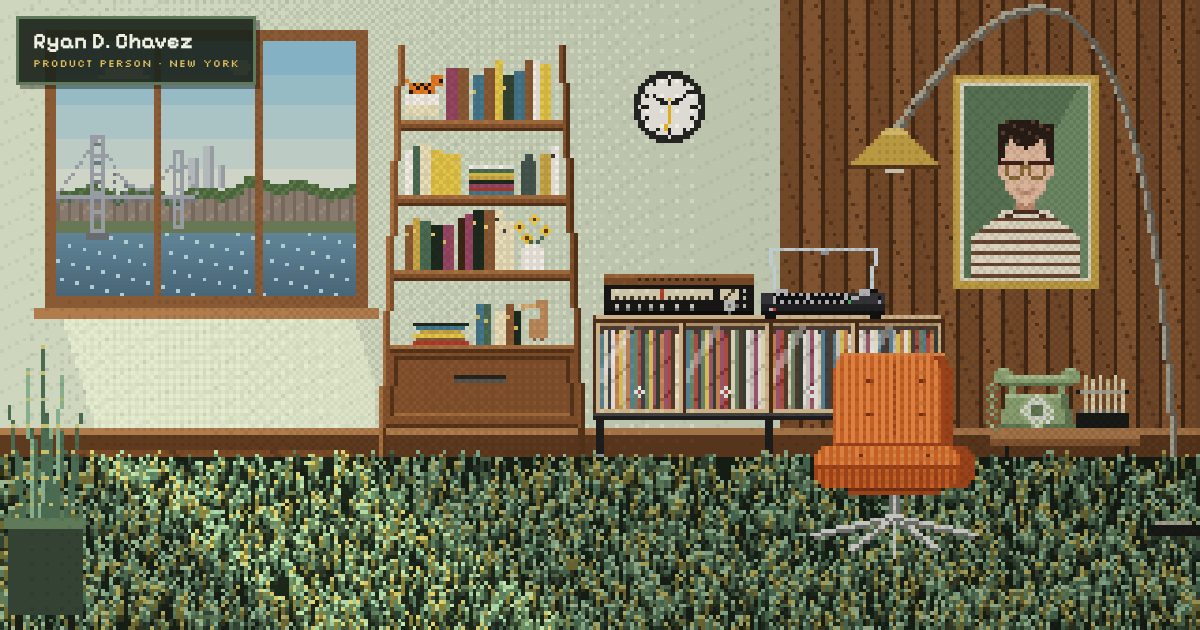
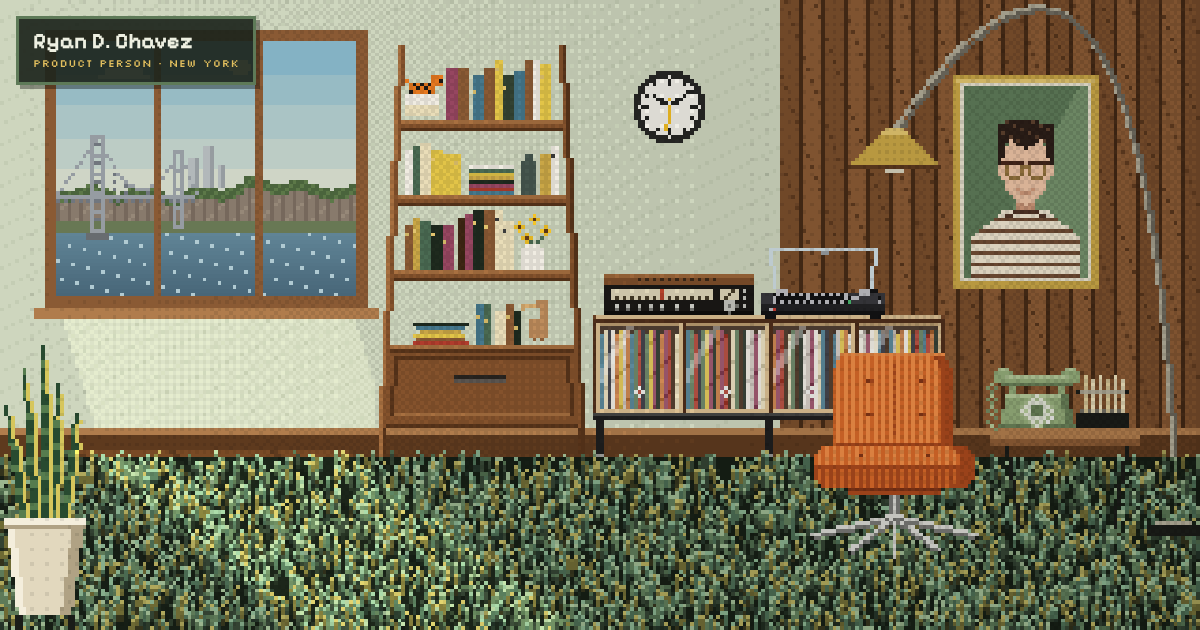
Make the snake plant stand out from the shag rug
The pot and leaves were the same dark greens as the rug fibers. Give it
a cream ceramic planter and wider banded leaves with a yellow edge, and
call the rug "shag" in the brush and fluff narrator lines. Regenerate
og.png to match.

Claude-Session: https://claude.ai/code/session_01TWfyjez9DYzks7iU1CyphV

Changed region(s): [[0.0, 0.573, 0.0925, 0.9952]]

diff --git a/room.js b/room.js
@@ -423,13 +423,20 @@ function drawFront(put, setCur) {
   setCur(OBJ.lamp);
   rect(306, 146, 14, 3, C.black); rect(308, 145, 10, 1, C.metal);
   setCur(OBJ.plant);
-  rect(2, 146, 20, 24, C.pot); rect(1, 144, 22, 3, C.sage); rect(4, 170, 2, 6, C.black); rect(18, 170, 2, 6, C.black);
-  [[5, 30, -3], [8, 40, -1], [11, 46, 0], [14, 38, 2], [17, 28, 4], [10, 24, 3], [13, 34, -2]].forEach(function (bl, n) {
+  // cream ceramic planter on black legs, so it reads against the green shag
+  var POT = [226, 216, 190], POTL = [244, 238, 220], POTD = [176, 162, 132];
+  for (y = 147; y < 170; y++) {
+    var pin = Math.round((y - 147) * 0.12);
+    for (x = 2 + pin; x <= 21 - pin; x++) put(x, y, x <= 3 + pin ? POTL : (x >= 19 - pin ? POTD : POT));
+  }
+  rect(1, 144, 22, 2, POTL); rect(1, 146, 22, 1, POTD);
+  rect(4, 170, 2, 6, C.black); rect(18, 170, 2, 6, C.black);
+  // sword leaves: dark green with lighter cross-bands and a yellow edge, tapering to a point
+  var LEAF = [40, 74, 48], BAND = [86, 124, 78], EDGE = [214, 198, 92];
+  [[6, 30, -4], [17, 28, 4], [9, 40, -2], [14, 36, 2], [12, 46, 0]].forEach(function (bl, n) {
     for (var j = 0; j < bl[1]; j++) {
-      var lx = bl[0] + Math.round(bl[2] * j / bl[1]);
-      put(lx, 143 - j, n % 2 ? C.leafB : C.leafA);
-      if (j < bl[1] * 0.6) put(lx + 1, 143 - j, C.leafA);
-      if (j % 7 === 3) put(lx, 143 - j, [196, 190, 110]);
+      var lx = bl[0] + Math.round(bl[2] * j / bl[1]), w = j < bl[1] * 0.7 ? 3 : (j < bl[1] * 0.9 ? 2 : 1);
+      for (var k = 0; k < w; k++) put(lx + k - 1, 143 - j, w > 1 && k === w - 1 ? EDGE : ((j + n * 2) % 6 < 2 ? BAND : LEAF));
     }
   });
   setCur(0);
@@ -539,7 +546,7 @@ function Room(root) {
   };
 
   this.back = function () { self.setState({ open: null, zone: null }); self.say("You step back."); };
-  this.fluff = function () { self.fluffing = true; self.kick(); self.say("You fluff the rug."); };
+  this.fluff = function () { self.fluffing = true; self.kick(); self.say("You fluff the shag rug."); };
 
   // Hotspots: real buttons over each object, positioned in scene percentages.
   this.hotEls = {};
@@ -710,7 +717,7 @@ Room.prototype.brush = function (e) {
   if (sp < 0.3) return;
   this.last = { x: lx, y: ly };
   this.fluffing = false;
-  if (!this.brushed) { this.brushed = true; this.say("You brush the rug. The lines stay."); }
+  if (!this.brushed) { this.brushed = true; this.say("You brush the shag rug. The lines stay."); }
   var maxB = 5, tgx = dx / sp * maxB, tgy = dy / sp * maxB * 0.75;
   var rc = 6 / CELL, steps = Math.max(1, Math.ceil(sp / CELL)), GW = this.GW, GH = this.GH;
   for (var s = 1; s <= steps; s++) {
